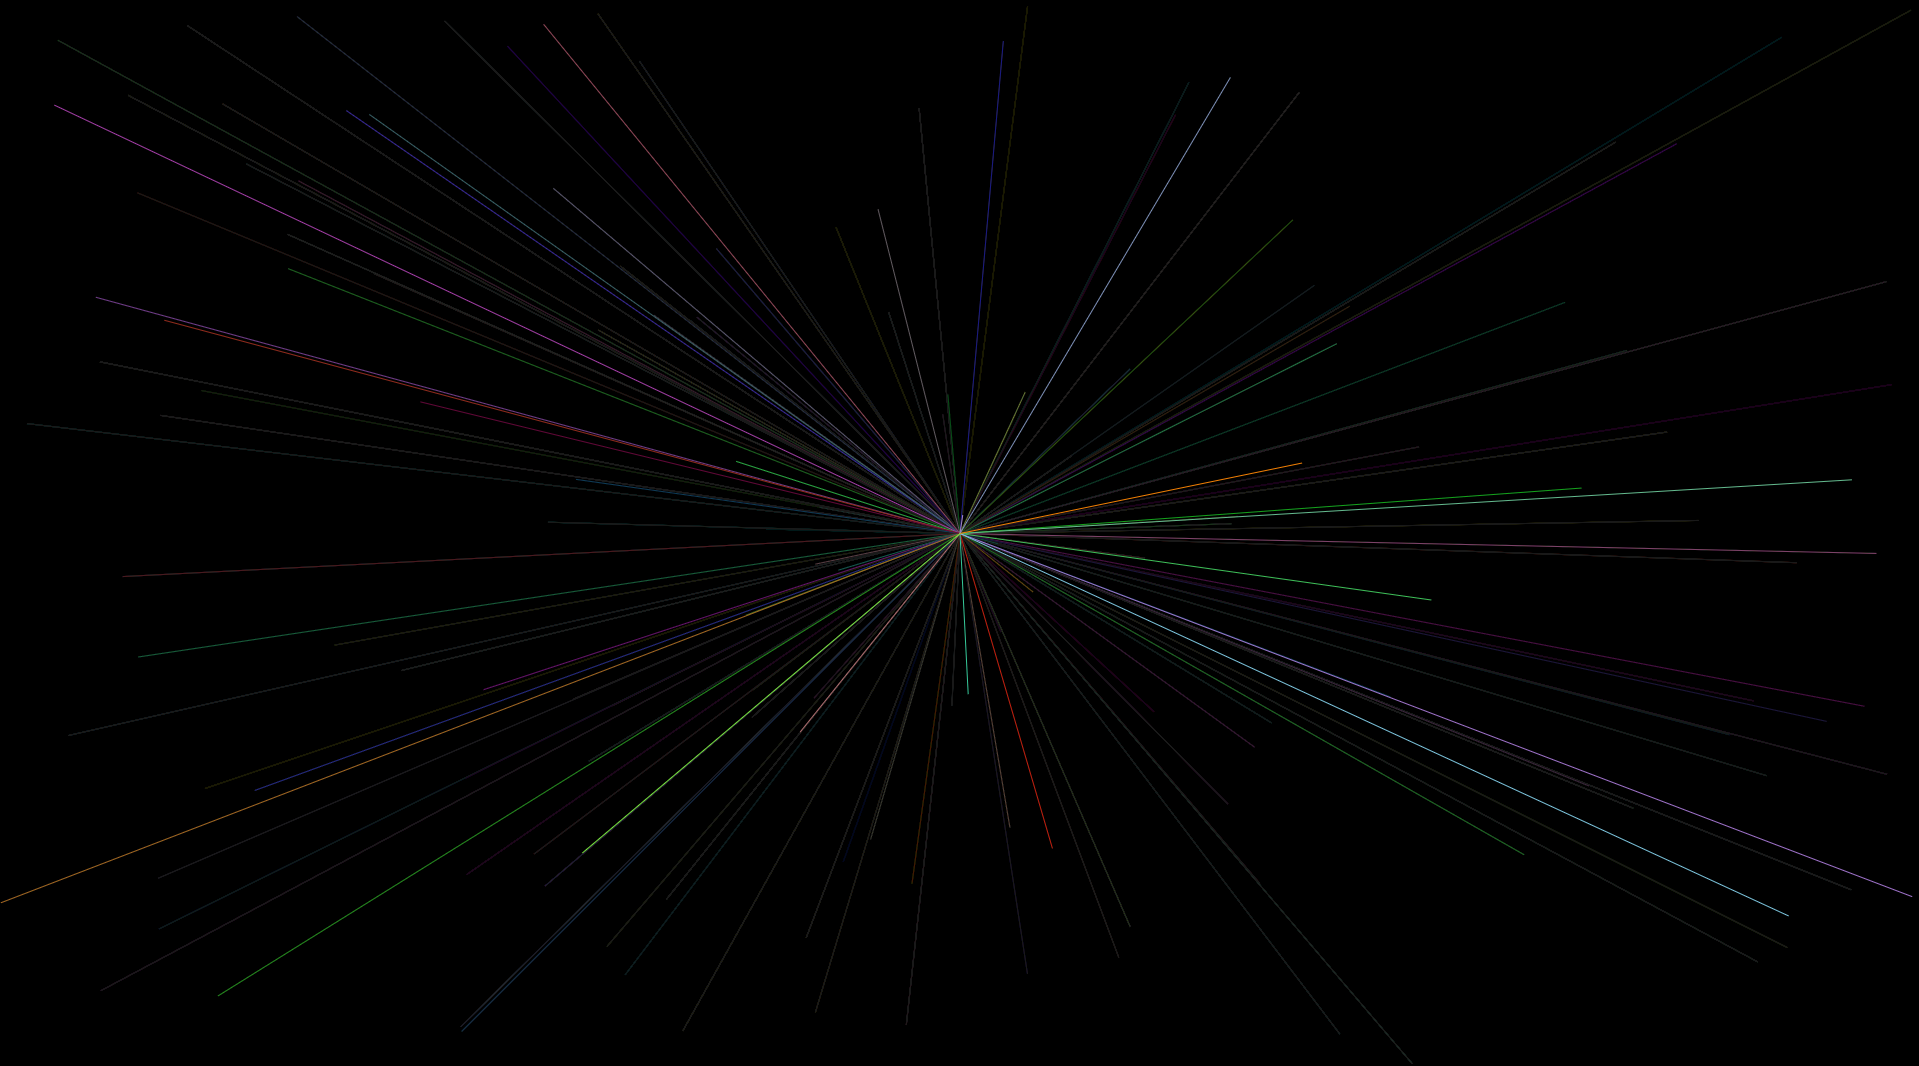
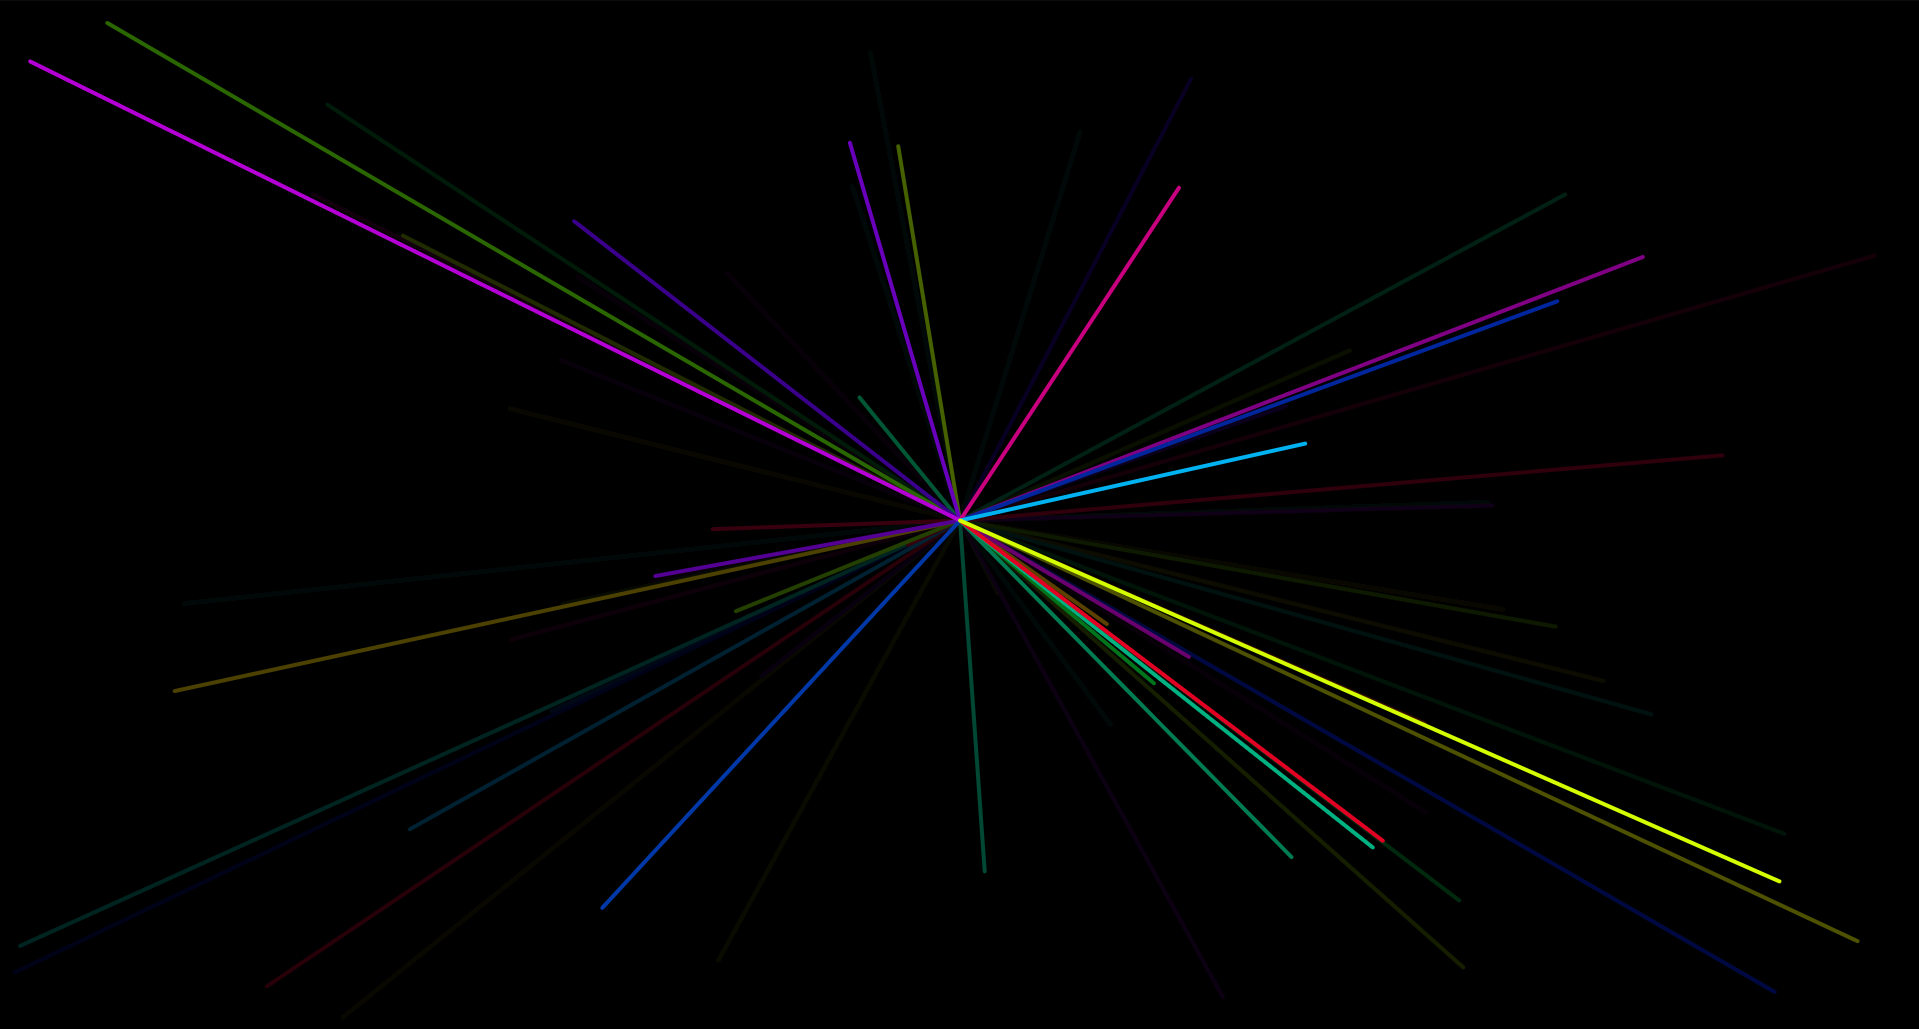
add nwe image for d1e1, add new mode to random lines

diff --git a/src/components/p5/day1/RandomLines.vue b/src/components/p5/day1/RandomLines.vue
@@ -5,34 +5,72 @@ const showHelp = ref(false);
 let p5Instance = null;
 const sketch = (p5) => {
   p5Instance = p5;
+  // const baseCount = 30;
+  // let count = baseCount;
+  const lastMode = 1;
+  let mode = 0;
+  let bg1 = p5.color(0, 0, 0, 40);
+  // let bg2 = p5.color(0, 0, 0, 80);
+
+  let p1;
+  let p2;
   p5.setup = () => {
     p5.createCanvas(p5.windowWidth, p5.windowHeight);
     p5.background(0);
-    p5.frameRate(60);
+    p5.frameRate(30);
+    p5.colorMode(p5.HSB);
   };
 
   p5.draw = () => {
-    p5.background(0, 0, 0, 5);
+    // if (count > 0) {
+      p5.background(bg1);
+      // count--;
+    // } else {
+    //   p5.background(bg2);
+    //   count = baseCount;
+    // }
 
-    p5.stroke(p5.random(255), p5.random(255), p5.random(255));
-    let x = p5.random(0, p5.width);
-    let y = p5.random(0, p5.height);
+    p5.strokeWeight(4);
+    p5.stroke(p5.random(360), 100, 100);
+    switch (mode) {
+      case 0:
+        p1 = p5.createVector(p5.width / 2, p5.height/2);
+        p2 = p5.createVector(p5.random(0, p5.width),p5.random(0, p5.height));
+        break;
+      case 1:
+        p1 = p2;
+        p2 = p5.createVector(p5.random(0, p5.width),p5.random(0, p5.height));
+        break;
+      default:
+        break;
+    }
 
-    p5.line(p5.width / 2, p5.height / 2, x, y);
+    p5.line(p1.x,p1.y,p2.x,p2.y);
   };
 
   function isInCanvas(x, y) {
     return 0 <= x && x <= p5.width && 0 <= y && y <= p5.height;
   }
-  
+
   p5.mousePressed = () => {
-    showHelp.value = false
-    // console.log("Random Lines -> clicked");
-    if(!isInCanvas(p5.mouseX, p5.mouseY)){
+    showHelp.value = false;
+    if (!isInCanvas(p5.mouseX, p5.mouseY)) {
       return;
     }
     p5.clear();
     p5.background(0, 0, 0);
+    if (p5.mouseButton === p5.LEFT) {
+      mode++;
+    }
+    if (p5.mouseButton === p5.RIGHT) {
+     mode--;
+    }
+    if(mode>lastMode){
+      mode = 0;
+    }
+    if(mode<0){
+      mode = lastMode;
+    }
   };
   p5.keyPressed = (event) => {
     switch (event.keyCode) {
@@ -76,12 +114,18 @@ const keyInput = [
   },
   {
     keys: "'click'",
-    function: "reset screen",
+    function: "change line mode",
   },
 ];
 </script>
 
 <template>
-  <P5 style="overflow: hidden; height: 100dvh;" :sketch="sketch" @wheel.prevent @touchmove.prevent @scroll.prevent />
+  <P5
+    style="overflow: hidden; height: 100dvh"
+    :sketch="sketch"
+    @wheel.prevent
+    @touchmove.prevent
+    @scroll.prevent
+  />
   <pop-up-card :show-pop-up="showHelp" :key-input="keyInput"></pop-up-card>
 </template>

diff --git a/src/components/PopUpCard.vue b/src/components/PopUpCard.vue
@@ -3,33 +3,35 @@
     <div
       class="card position-absolute top-50 start-50 translate-middle bg-secondary"
     >
-      <div class="card-body  m-4">
-        <header>
-          <slot name="title" class="card-title"></slot>
-        </header>
-        <main>
-          <slot class="card-text"></slot>
-          <table
-            v-if="keyInput"
-            class="table table-striped table-dark table-hover"
-          >
-            <thead>
-              <tr>
-                <th scope="col">Keys</th>
-                <th scope="col">Function</th>
-              </tr>
-            </thead>
-            <tbody>
-              <tr v-for="(row, index) of keyInput" :key="index">
-                <td scope="row">{{ row.keys }}</td>
-                <td>{{ row.function }}</td>
-              </tr>
-            </tbody>
-          </table>
-        </main>
-        <footer>
-          <slot name="footer" class="card-footer"></slot>
-        </footer>
+      <div class="card-body m-4">
+        <div class="m-4">
+          <header>
+            <h1 class="text-warning card-title display-4">Help</h1>
+          </header>
+          <main>
+            <slot class="card-text"></slot>
+            <table
+              v-if="keyInput"
+              class="table table-striped table-dark table-hover"
+            >
+              <thead>
+                <tr>
+                  <th scope="col">Keys</th>
+                  <th scope="col">Function</th>
+                </tr>
+              </thead>
+              <tbody>
+                <tr v-for="(row, index) of keyInput" :key="index">
+                  <td scope="row">{{ row.keys }}</td>
+                  <td>{{ row.function }}</td>
+                </tr>
+              </tbody>
+            </table>
+          </main>
+          <footer>
+            <slot name="footer" class="card-footer"></slot>
+          </footer>
+        </div>
       </div>
     </div>
   </div>

diff --git a/src/views/HomeView.vue b/src/views/HomeView.vue
@@ -11,7 +11,7 @@ const props = defineProps(["routes"]);
 onMounted(() => {
   useEventListener(document, "keydown", (e) => {
     if (e.code == "Escape") {
-      sessionStorage.removeItem("visitedAlready")
+      sessionStorage.removeItem("visitedAlready");
     }
     if (e.code == "KeyH") {
       if (visitForFirstTime.value) {
@@ -50,14 +50,11 @@ onMounted(() => {
   </div>
 
   <pop-up-card :show-pop-up="showHelp || visitForFirstTime">
-    <div class="m-5">
-      <h1 class="text-warning display-3">Help</h1>
-      <p class="lead">
-        <strong>
-          You can Press "h" on any screen to open/close the help panel for that
-          screen
-        </strong>
-      </p>
-    </div>
+    <p class="lead">
+      <strong>
+        You can Press "h" on any screen to open/close the help panel for that
+        screen
+      </strong>
+    </p>
   </pop-up-card>
 </template>

diff --git a/src/components/p5/day7/MandelbrotSet.vue b/src/components/p5/day7/MandelbrotSet.vue
@@ -195,6 +195,10 @@ const keyInput = [
     keys: "'w'/'s' or 'Arrow-Up'/'Arrow-down'",
     function: "cycle through different presets of the Julia set",
   },
+  {
+    keys: "'o'",
+    function: "change the parameters of the Julia Sets (NOT AVAILABLE YET)",
+  },
   
 
 ];
